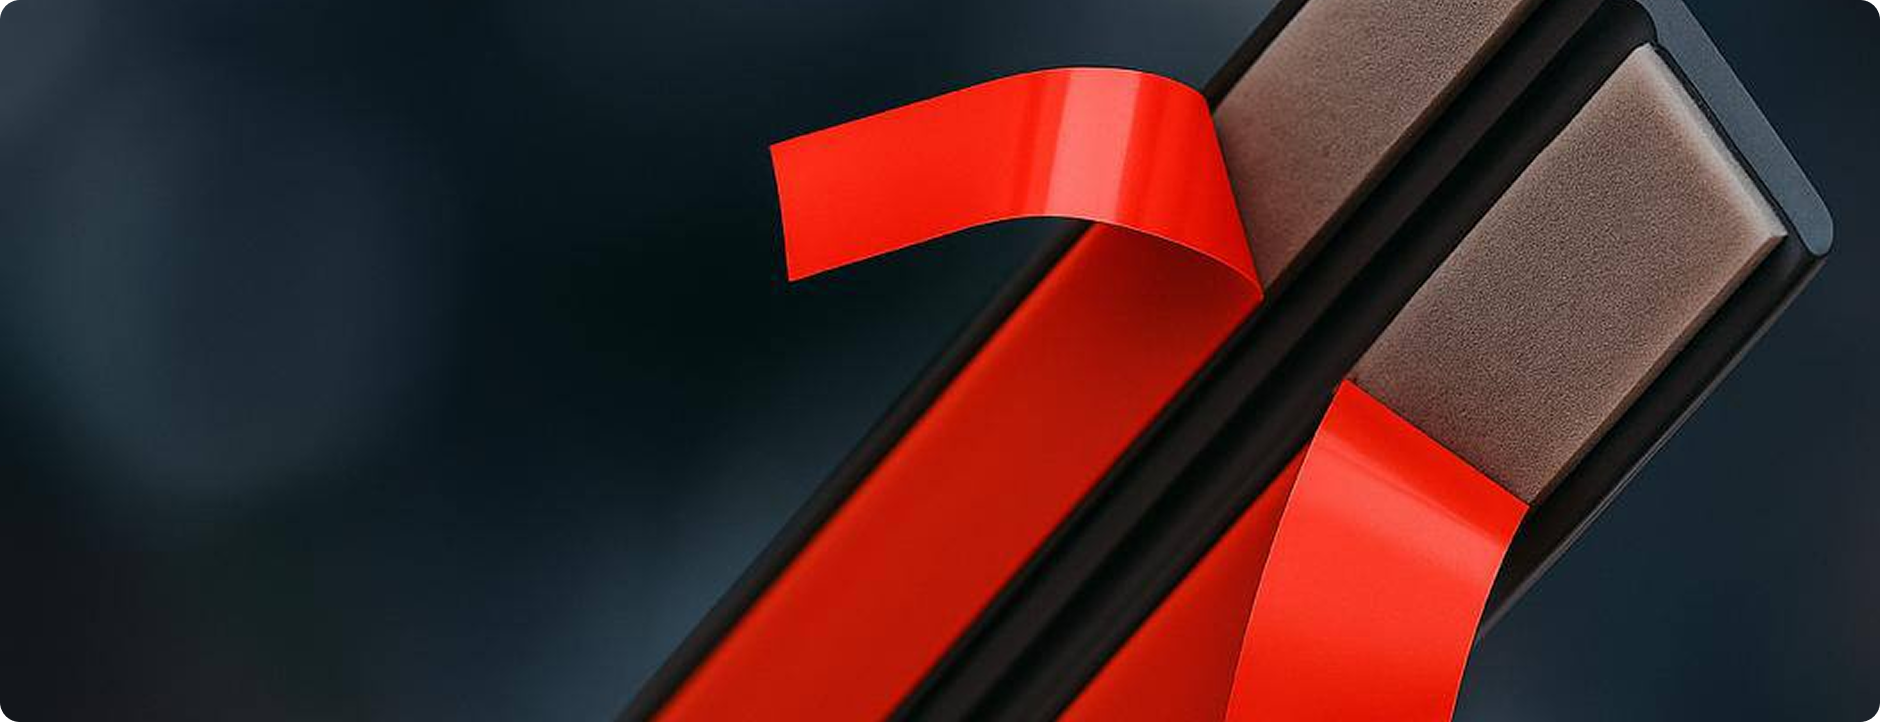
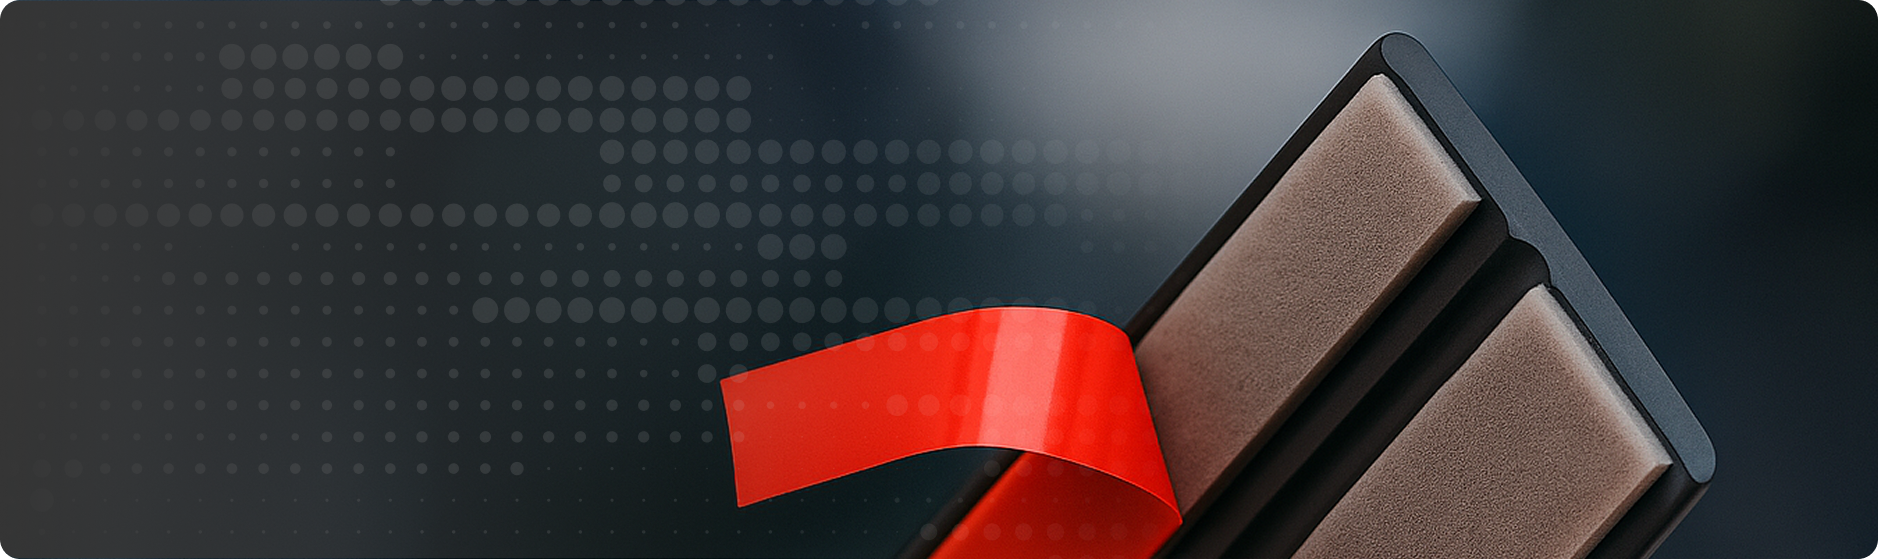
fix

diff --git a/src/components/aboutPage/Afoam/Afoam.module.scss b/src/components/aboutPage/Afoam/Afoam.module.scss
@@ -18,7 +18,7 @@
 }
 
 .imgAfoam {
-	height: 11vw;
+	height: 4.5vw;
 	width: auto;
 }
 
